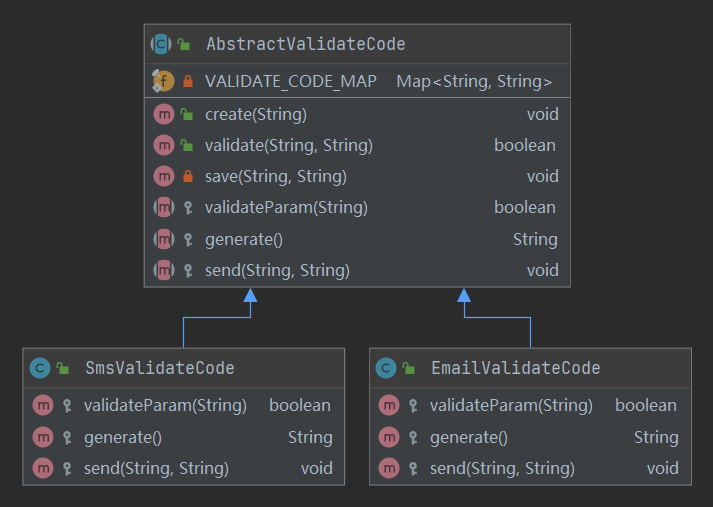
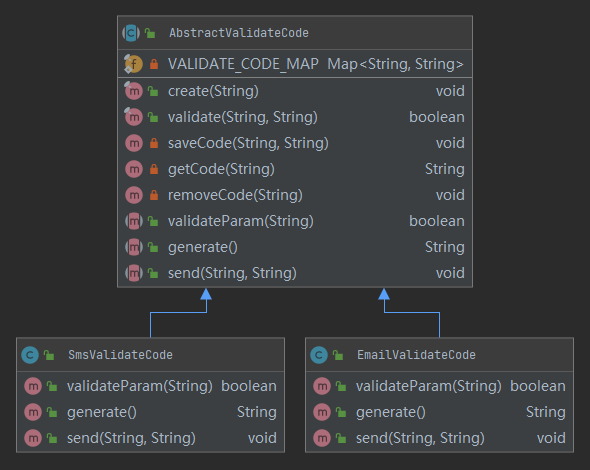
模板方法模式代码优化

Changed region(s): [[0.0305, 0.0298, 0.9763, 0.983]]

diff --git a/template-method/src/main/java/com/junmoyu/template/method/hook/AbstractValidateCode.java b/template-method/src/main/java/com/junmoyu/template/method/hook/AbstractValidateCode.java
@@ -6,7 +6,7 @@ import java.util.HashMap;
 import java.util.Map;
 
 /**
- * 验证码抽象类
+ * 验证码抽象类 - 添加 Hook
  * 定义模板方法和抽象策略
  *
  * @author moyu.jun
@@ -43,8 +43,6 @@ public abstract class AbstractValidateCode {
 
         // 4.验证码发送
         send(account, code);
-
-        // 用时间间隔演示 Hook
     }
 
     /**
@@ -70,7 +68,6 @@ public abstract class AbstractValidateCode {
 
         // 3.验证通过后，清除验证码
         removeCode(account);
-        System.out.println("验证码校验成功，验证通过");
         return true;
     }
 
@@ -95,35 +92,40 @@ public abstract class AbstractValidateCode {
         VALIDATE_CODE_MAP.remove(account);
     }
 
-    protected boolean needCustomizeTemplate() {
+    /**
+     * Hook 方法 - 是否需要自定义模板
+     *
+     * @return true: 需要；false: 不需要
+     */
+    public boolean needCustomizeTemplate() {
         return false;
     }
 
     /**
-     * 校验参数，验证手机号或邮箱是否符合规则
+     * 抽象方法 - 校验参数，验证手机号或邮箱是否符合规则
      *
      * @param account 请求
      * @return 是否符合规则
      */
-    protected abstract boolean validateParam(String account);
+    public abstract boolean validateParam(String account);
 
     /**
-     * 生成验证码
+     * 抽象方法 - 生成验证码
      *
      * @return 验证码
      */
-    protected abstract String generate();
+    public abstract String generate();
 
     /**
-     * 设置信息模板
+     * 抽象方法 - 设置信息模板
      */
-    protected abstract void setMessageTemplate();
+    public abstract void setMessageTemplate();
 
     /**
-     * 发送验证码
+     * 抽象方法 - 发送验证码
      *
      * @param account 账号
      * @param code    验证码
      */
-    protected abstract void send(String account, String code);
+    public abstract void send(String account, String code);
 }

diff --git a/template-method/src/main/java/com/junmoyu/template/method/hook/SmsValidateCode.java b/template-method/src/main/java/com/junmoyu/template/method/hook/SmsValidateCode.java
@@ -7,7 +7,7 @@ import com.junmoyu.template.method.util.StringUtils;
 import java.util.Scanner;
 
 /**
- * 短信验证码
+ * 短信验证码 - 添加 Hook
  *
  * @author moyu.jun
  * @date 2021/4/24
@@ -15,7 +15,7 @@ import java.util.Scanner;
 public class SmsValidateCode extends AbstractValidateCode {
 
     @Override
-    protected boolean validateParam(String account) {
+    public boolean validateParam(String account) {
         if (RegexUtils.isMobile(account)) {
             System.out.println("手机号码校验通过");
             return true;
@@ -24,25 +24,25 @@ public class SmsValidateCode extends AbstractValidateCode {
     }
 
     @Override
-    protected String generate() {
+    public String generate() {
         String code = RandomUtils.random(6, true);
         System.out.println("生成六位纯数字的手机验证码：" + code);
         return code;
     }
 
     @Override
-    protected void setMessageTemplate() {
+    public void setMessageTemplate() {
         System.out.println("设置了自定义的短信模板");
     }
 
     @Override
-    protected void send(String account, String code) {
+    public void send(String account, String code) {
         // 发送验证码到手机，在此不做实现
         System.out.println("已将验证码发送到手机。手机号码：" + account + "，验证码：" + code);
     }
 
     @Override
-    protected boolean needCustomizeTemplate() {
+    public boolean needCustomizeTemplate() {
         String answer = getUserInput();
         if (answer.toLowerCase().startsWith("y")) {
             return true;

diff --git a/template-method/src/main/java/com/junmoyu/template/method/hook/EmailValidateCode.java b/template-method/src/main/java/com/junmoyu/template/method/hook/EmailValidateCode.java
@@ -12,7 +12,7 @@ import com.junmoyu.template.method.util.RegexUtils;
 public class EmailValidateCode extends AbstractValidateCode {
 
     @Override
-    protected boolean validateParam(String account) {
+    public boolean validateParam(String account) {
         if (RegexUtils.isEmail(account)) {
             System.out.println("邮箱账号校验通过");
             return true;
@@ -21,19 +21,19 @@ public class EmailValidateCode extends AbstractValidateCode {
     }
 
     @Override
-    protected String generate() {
+    public String generate() {
         String code = RandomUtils.random(6);
         System.out.println("生成六位英文 + 数字的邮箱验证码." + code);
         return code;
     }
 
     @Override
-    protected void setMessageTemplate() {
+    public void setMessageTemplate() {
         System.out.println("设置了自定义的邮箱模板");
     }
 
     @Override
-    protected void send(String account, String code) {
+    public void send(String account, String code) {
         // 发送验证码到邮箱，在此不做实现
         System.out.println("已将验证码发送到邮箱。邮箱账号：" + account + "，验证码：" + code);
     }

diff --git a/template-method/src/main/java/com/junmoyu/template/method/ApplicationTest.java b/template-method/src/main/java/com/junmoyu/template/method/ApplicationTest.java
@@ -40,7 +40,9 @@ public class ApplicationTest {
             String code = s.nextLine();
             if (StringUtils.isNotEmpty(code) && code.length() == 6) {
                 // 校验手机验证码
-                smsValidateCode.validate(MOBILE_ACCOUNT, code);
+                if (smsValidateCode.validate(MOBILE_ACCOUNT, code)) {
+                    System.out.println("验证码校验成功，验证通过");
+                }
                 break;
             } else {
                 System.out.print("请输入六位手机验证码：");
@@ -63,7 +65,9 @@ public class ApplicationTest {
             String code = s.nextLine();
             if (StringUtils.isNotEmpty(code) && code.length() == 6) {
                 // 校验邮箱验证码
-                emailValidateCode.validate(EMAIL_ACCOUNT, code);
+                if (emailValidateCode.validate(EMAIL_ACCOUNT, code)) {
+                    System.out.println("验证码校验成功，验证通过");
+                }
                 break;
             } else {
                 System.out.print("请输入六位邮箱验证码：");

diff --git a/template-method/src/main/java/com/junmoyu/template/method/hook/ApplicationTest.java b/template-method/src/main/java/com/junmoyu/template/method/hook/ApplicationTest.java
@@ -40,7 +40,9 @@ public class ApplicationTest {
             String code = s.nextLine();
             if (StringUtils.isNotEmpty(code) && code.length() == 6) {
                 // 校验手机验证码
-                smsValidateCode.validate(MOBILE_ACCOUNT, code);
+                if (smsValidateCode.validate(MOBILE_ACCOUNT, code)) {
+                    System.out.println("验证码校验成功，验证通过");
+                }
                 break;
             } else {
                 System.out.print("请输入六位手机验证码：");
@@ -63,7 +65,9 @@ public class ApplicationTest {
             String code = s.nextLine();
             if (StringUtils.isNotEmpty(code) && code.length() == 6) {
                 // 校验邮箱验证码
-                emailValidateCode.validate(EMAIL_ACCOUNT, code);
+                if (emailValidateCode.validate(EMAIL_ACCOUNT, code)) {
+                    System.out.println("验证码校验成功，验证通过");
+                }
                 break;
             } else {
                 System.out.print("请输入六位邮箱验证码：");

diff --git a/template-method/src/main/java/com/junmoyu/template/method/EmailValidateCode.java b/template-method/src/main/java/com/junmoyu/template/method/EmailValidateCode.java
@@ -12,7 +12,7 @@ import com.junmoyu.template.method.util.RegexUtils;
 public class EmailValidateCode extends AbstractValidateCode {
 
     @Override
-    protected boolean validateParam(String account) {
+    public boolean validateParam(String account) {
         if (RegexUtils.isEmail(account)) {
             System.out.println("邮箱账号校验通过");
             return true;
@@ -21,14 +21,14 @@ public class EmailValidateCode extends AbstractValidateCode {
     }
 
     @Override
-    protected String generate() {
+    public String generate() {
         String code = RandomUtils.random(6);
         System.out.println("生成六位英文 + 数字的邮箱验证码." + code);
         return code;
     }
 
     @Override
-    protected void send(String account, String code) {
+    public void send(String account, String code) {
         // 发送验证码到邮箱，在此不做实现
         System.out.println("已将验证码发送到邮箱。邮箱账号：" + account + "，验证码：" + code);
     }

diff --git a/template-method/src/main/java/com/junmoyu/template/method/SmsValidateCode.java b/template-method/src/main/java/com/junmoyu/template/method/SmsValidateCode.java
@@ -12,7 +12,7 @@ import com.junmoyu.template.method.util.RegexUtils;
 public class SmsValidateCode extends AbstractValidateCode {
 
     @Override
-    protected boolean validateParam(String account) {
+    public boolean validateParam(String account) {
         if (RegexUtils.isMobile(account)) {
             System.out.println("手机号码校验通过");
             return true;
@@ -21,14 +21,14 @@ public class SmsValidateCode extends AbstractValidateCode {
     }
 
     @Override
-    protected String generate() {
+    public String generate() {
         String code = RandomUtils.random(6, true);
         System.out.println("生成六位纯数字的手机验证码：" + code);
         return code;
     }
 
     @Override
-    protected void send(String account, String code) {
+    public void send(String account, String code) {
         // 发送验证码到手机，在此不做实现
         System.out.println("已将验证码发送到手机。手机号码：" + account + "，验证码：" + code);
     }

diff --git a/template-method/src/main/java/com/junmoyu/template/method/AbstractValidateCode.java b/template-method/src/main/java/com/junmoyu/template/method/AbstractValidateCode.java
@@ -89,25 +89,25 @@ public abstract class AbstractValidateCode {
     }
 
     /**
-     * 校验参数，验证手机号或邮箱是否符合规则
+     * 抽象方法 - 校验参数，验证手机号或邮箱是否符合规则
      *
      * @param account 请求
      * @return 是否符合规则
      */
-    protected abstract boolean validateParam(String account);
+    public abstract boolean validateParam(String account);
 
     /**
-     * 生成验证码
+     * 抽象方法 - 生成验证码
      *
      * @return 验证码
      */
-    protected abstract String generate();
+    public abstract String generate();
 
     /**
-     * 发送验证码
+     * 抽象方法 - 发送验证码
      *
      * @param account 账号
      * @param code    验证码
      */
-    protected abstract void send(String account, String code);
+    public abstract void send(String account, String code);
 }
